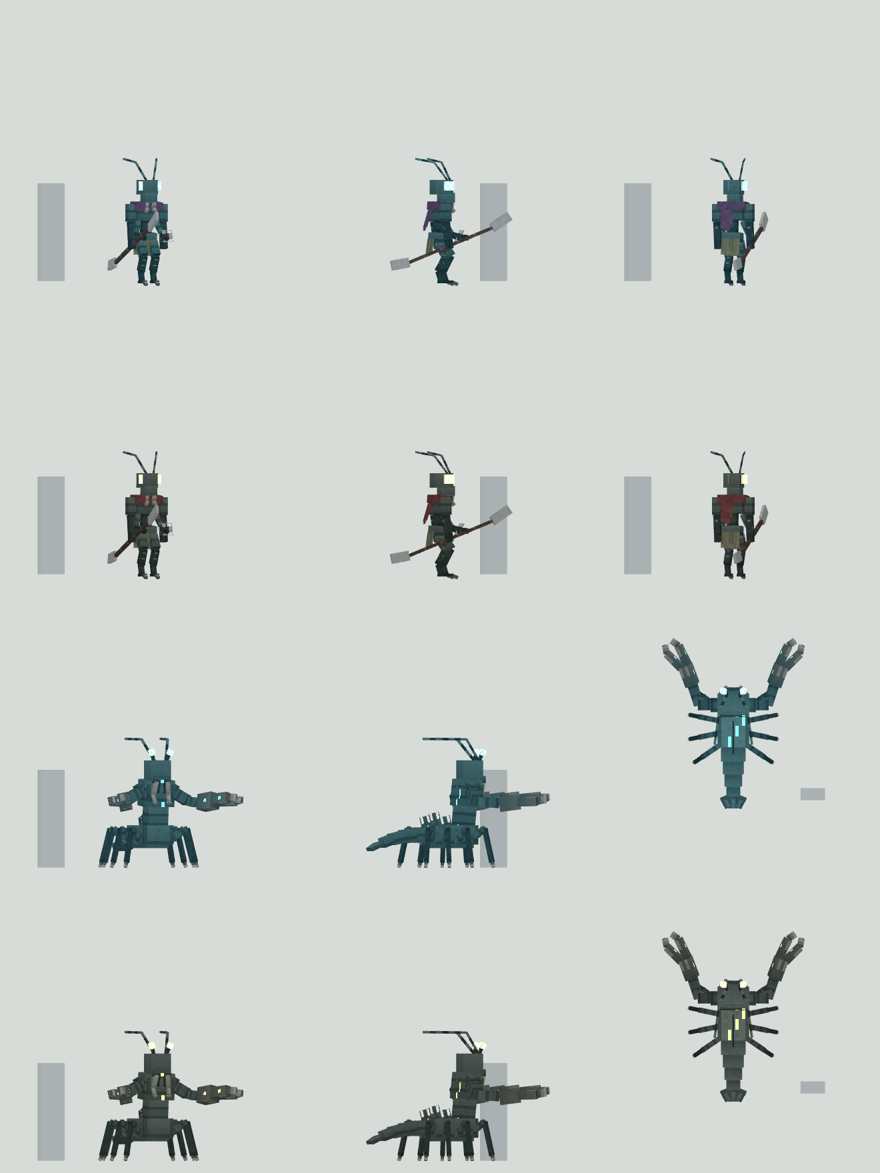
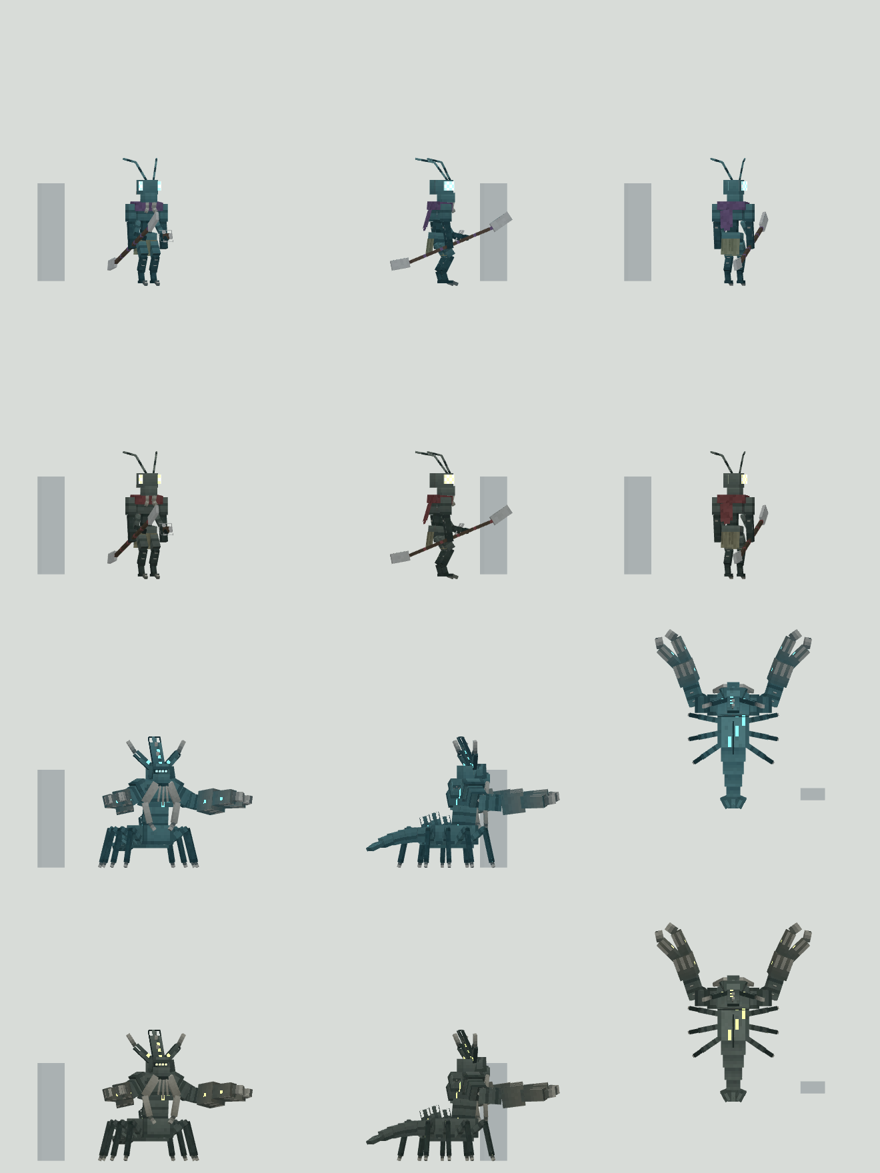
Deepmaw: thick claw arms and a face with depth, after the reference
The arms and pincers are about half again as thick. The head is rebuilt
from the reference: a tall spiked crown with two horns, a heavy brow
overhanging a recessed row of glowing eyes, a snout jutting forward over
a dark mouth, flared bone tusk-blades and thin fangs. Eye stalks and
antennae are gone.

Claude-Session: https://claude.ai/code/session_01EWJoGWZ8sZFDomPfmPJbYJ

diff --git a/mods/warfront/src/main/java/com/warfront/client/model/UnitGeometry.java b/mods/warfront/src/main/java/com/warfront/client/model/UnitGeometry.java
@@ -430,163 +430,179 @@ public final class UnitGeometry {
     public static LayerDefinition hive_beast() {
         MeshDefinition mesh = new MeshDefinition();
         PartDefinition root = mesh.getRoot();
-        PartDefinition p0 = root.addOrReplaceChild("head", CubeListBuilder.create().texOffs(0, 20).addBox(-3F, -6F, -3.5F, 6F, 6F, 6F).texOffs(60, 58).addBox(-2.5F, -1.5F, -4.5F, 5F, 2F, 2F),
+        PartDefinition p0 = root.addOrReplaceChild("head", CubeListBuilder.create().texOffs(94, 32).addBox(-2.5F, -4.5F, -2.5F, 5F, 4.5F, 5F).texOffs(14, 71).addBox(-2.75F, -5F, -4.5F, 5.5F, 1.5F, 2.5F).texOffs(0, 77).addBox(-2F, -3.5F, -3.6F, 4F, 1.4F, 1.1F).texOffs(112, 77).addBox(-1.7F, -3.2F, -3.85F, 0.6F, 0.6F, 0.3F).texOffs(116, 77).addBox(-0.75F, -3.2F, -3.85F, 0.6F, 0.6F, 0.3F).texOffs(120, 77).addBox(0.15F, -3.2F, -3.85F, 0.6F, 0.6F, 0.3F).texOffs(124, 77).addBox(1.1F, -3.2F, -3.85F, 0.6F, 0.6F, 0.3F).texOffs(38, 63).addBox(-1.75F, -2.1F, -6F, 3.5F, 2.6F, 3.5F).texOffs(12, 77).addBox(-1.25F, -2.5F, -5.75F, 2.5F, 0.5F, 3F).texOffs(24, 77).addBox(-1.5F, 0.5F, -5.5F, 3F, 1F, 3F),
                 PartPose.offsetAndRotation(0F, -0.5F, -8.5F, 0F, 0F, 0F));
-        PartDefinition p1 = p0.addOrReplaceChild("eye_r", CubeListBuilder.create().texOffs(74, 58).addBox(-0.4F, -2.5F, -0.4F, 0.8F, 2.5F, 0.8F).texOffs(78, 58).addBox(-0.75F, -3.8F, -0.75F, 1.5F, 1.5F, 1.5F),
-                PartPose.offsetAndRotation(-1.8F, -5.5F, -2.5F, 0.3F, 0F, -0.35F));
-        PartDefinition p2 = p0.addOrReplaceChild("antenna_r", CubeListBuilder.create().texOffs(118, 20).addBox(-0.3F, -9F, -0.3F, 0.6F, 9F, 0.6F),
-                PartPose.offsetAndRotation(-1.4F, -5F, -3.2F, -0.6F, 0F, -0.35F));
-        PartDefinition p3 = p2.addOrReplaceChild("antenna_r_tip", CubeListBuilder.create().texOffs(110, 20).addBox(-0.25F, -10F, -0.25F, 0.5F, 10F, 0.5F),
-                PartPose.offsetAndRotation(0F, -9F, 0F, -0.9F, 0F, -0.2F));
-        PartDefinition p4 = p0.addOrReplaceChild("mandible_r", CubeListBuilder.create().texOffs(40, 51).addBox(-0.6F, 0F, -0.6F, 1.2F, 4F, 1.2F),
-                PartPose.offsetAndRotation(-1.6F, 0F, -4F, 0.25F, 0F, 0.2F));
-        PartDefinition p5 = p4.addOrReplaceChild("mandible_r_tip", CubeListBuilder.create().texOffs(86, 58).addBox(-0.45F, 0F, -0.45F, 0.9F, 3F, 0.9F),
-                PartPose.offsetAndRotation(0F, 4F, 0F, -0.8F, 0F, -0.4F));
-        PartDefinition p6 = p0.addOrReplaceChild("feeler_r", CubeListBuilder.create().texOffs(90, 58).addBox(-0.25F, 0F, -0.25F, 0.5F, 3F, 0.5F),
-                PartPose.offsetAndRotation(-0.7F, 0.5F, -4.3F, 0.2F, 0F, 0.1F));
-        PartDefinition p7 = p0.addOrReplaceChild("eye_l", CubeListBuilder.create().texOffs(94, 58).mirror().addBox(-0.4F, -2.5F, -0.4F, 0.8F, 2.5F, 0.8F).mirror(false).texOffs(98, 58).mirror().addBox(-0.75F, -3.8F, -0.75F, 1.5F, 1.5F, 1.5F).mirror(false),
-                PartPose.offsetAndRotation(1.8F, -5.5F, -2.5F, 0.3F, 0F, 0.35F));
-        PartDefinition p8 = p0.addOrReplaceChild("antenna_l", CubeListBuilder.create().texOffs(122, 20).mirror().addBox(-0.3F, -9F, -0.3F, 0.6F, 9F, 0.6F).mirror(false),
-                PartPose.offsetAndRotation(1.4F, -5F, -3.2F, -0.6F, 0F, 0.35F));
-        PartDefinition p9 = p8.addOrReplaceChild("antenna_l_tip", CubeListBuilder.create().texOffs(114, 20).mirror().addBox(-0.25F, -10F, -0.25F, 0.5F, 10F, 0.5F).mirror(false),
-                PartPose.offsetAndRotation(0F, -9F, 0F, -0.9F, 0F, 0.2F));
-        PartDefinition p10 = p0.addOrReplaceChild("mandible_l", CubeListBuilder.create().texOffs(48, 51).mirror().addBox(-0.6F, 0F, -0.6F, 1.2F, 4F, 1.2F).mirror(false),
-                PartPose.offsetAndRotation(1.6F, 0F, -4F, 0.25F, 0F, -0.2F));
-        PartDefinition p11 = p10.addOrReplaceChild("mandible_l_tip", CubeListBuilder.create().texOffs(106, 58).mirror().addBox(-0.45F, 0F, -0.45F, 0.9F, 3F, 0.9F).mirror(false),
-                PartPose.offsetAndRotation(0F, 4F, 0F, -0.8F, 0F, 0.4F));
-        PartDefinition p12 = p0.addOrReplaceChild("feeler_l", CubeListBuilder.create().texOffs(110, 58).mirror().addBox(-0.25F, 0F, -0.25F, 0.5F, 3F, 0.5F).mirror(false),
-                PartPose.offsetAndRotation(0.7F, 0.5F, -4.3F, 0.2F, 0F, -0.1F));
-        PartDefinition p13 = root.addOrReplaceChild("hat", CubeListBuilder.create(),
+        PartDefinition p1 = p0.addOrReplaceChild("crown_c", CubeListBuilder.create().texOffs(114, 32).addBox(-1.75F, -9F, -0.5F, 3.5F, 9F, 1F),
+                PartPose.offsetAndRotation(0F, -4.5F, -1.5F, -0.45F, 0F, 0F));
+        PartDefinition p2 = p1.addOrReplaceChild("crown_spike_0", CubeListBuilder.create().texOffs(72, 77).addBox(-0.4F, -2F, -0.4F, 0.8F, 2F, 0.8F),
+                PartPose.offsetAndRotation(0F, -2.5F, 0.5F, 0.9F, 0F, 0F));
+        PartDefinition p3 = p1.addOrReplaceChild("crown_spike_1", CubeListBuilder.create().texOffs(76, 77).addBox(-0.4F, -2F, -0.4F, 0.8F, 2F, 0.8F),
+                PartPose.offsetAndRotation(0F, -5.5F, 0.5F, 0.9F, 0F, 0F));
+        PartDefinition p4 = p0.addOrReplaceChild("horn_r", CubeListBuilder.create().texOffs(64, 54).addBox(-1F, -6F, -0.6F, 2F, 6F, 1.2F),
+                PartPose.offsetAndRotation(-2.25F, -4F, -1F, -0.2F, 0F, -0.8F));
+        PartDefinition p5 = p4.addOrReplaceChild("horn_r_tip", CubeListBuilder.create().texOffs(32, 71).addBox(-0.5F, -4F, -0.5F, 1F, 4F, 1F),
+                PartPose.offsetAndRotation(0F, -6F, 0F, 0F, 0F, 0.25F));
+        PartDefinition p6 = p0.addOrReplaceChild("cheek_r", CubeListBuilder.create().texOffs(72, 54).addBox(-1F, -2F, -1F, 1F, 3.5F, 3.5F),
+                PartPose.offsetAndRotation(-2.6F, -2.2F, -3.6F, 0F, 0.5F, 0.15F));
+        PartDefinition p7 = p0.addOrReplaceChild("mandible_r", CubeListBuilder.create().texOffs(82, 54).addBox(-1.1F, 0F, -0.5F, 2.2F, 6.5F, 1F),
+                PartPose.offsetAndRotation(-1.9F, 0.5F, -5F, 0.25F, 0F, 0.5F));
+        PartDefinition p8 = p7.addOrReplaceChild("mandible_r_tip", CubeListBuilder.create().texOffs(54, 63).addBox(-0.85F, 0F, -0.5F, 1.7F, 6F, 1F),
+                PartPose.offsetAndRotation(0F, 6.5F, 0F, -0.3F, 0F, -0.75F));
+        PartDefinition p9 = p8.addOrReplaceChild("mandible_r_point", CubeListBuilder.create().texOffs(36, 77).addBox(-0.5F, 0F, -0.5F, 1F, 2.5F, 1F),
+                PartPose.offsetAndRotation(0F, 6F, 0F, 0F, 0F, -0.4F));
+        PartDefinition p10 = p0.addOrReplaceChild("fang_r", CubeListBuilder.create().texOffs(78, 63).addBox(-0.25F, 0F, -0.25F, 0.5F, 4.5F, 0.5F),
+                PartPose.offsetAndRotation(-0.9F, 1.3F, -5.4F, 0.1F, 0F, 0.12F));
+        PartDefinition p11 = p0.addOrReplaceChild("horn_l", CubeListBuilder.create().texOffs(90, 54).mirror().addBox(-1F, -6F, -0.6F, 2F, 6F, 1.2F).mirror(false),
+                PartPose.offsetAndRotation(2.25F, -4F, -1F, -0.2F, 0F, 0.8F));
+        PartDefinition p12 = p11.addOrReplaceChild("horn_l_tip", CubeListBuilder.create().texOffs(36, 71).mirror().addBox(-0.5F, -4F, -0.5F, 1F, 4F, 1F).mirror(false),
+                PartPose.offsetAndRotation(0F, -6F, 0F, 0F, 0F, -0.25F));
+        PartDefinition p13 = p0.addOrReplaceChild("cheek_l", CubeListBuilder.create().texOffs(98, 54).mirror().addBox(0F, -2F, -1F, 1F, 3.5F, 3.5F).mirror(false),
+                PartPose.offsetAndRotation(2.6F, -2.2F, -3.6F, 0F, -0.5F, -0.15F));
+        PartDefinition p14 = p0.addOrReplaceChild("mandible_l", CubeListBuilder.create().texOffs(108, 54).mirror().addBox(-1.1F, 0F, -0.5F, 2.2F, 6.5F, 1F).mirror(false),
+                PartPose.offsetAndRotation(1.9F, 0.5F, -5F, 0.25F, 0F, -0.5F));
+        PartDefinition p15 = p14.addOrReplaceChild("mandible_l_tip", CubeListBuilder.create().texOffs(60, 63).mirror().addBox(-0.85F, 0F, -0.5F, 1.7F, 6F, 1F).mirror(false),
+                PartPose.offsetAndRotation(0F, 6.5F, 0F, -0.3F, 0F, 0.75F));
+        PartDefinition p16 = p15.addOrReplaceChild("mandible_l_point", CubeListBuilder.create().texOffs(40, 77).mirror().addBox(-0.5F, 0F, -0.5F, 1F, 2.5F, 1F).mirror(false),
+                PartPose.offsetAndRotation(0F, 6F, 0F, 0F, 0F, 0.4F));
+        PartDefinition p17 = p0.addOrReplaceChild("fang_l", CubeListBuilder.create().texOffs(82, 63).mirror().addBox(-0.25F, 0F, -0.25F, 0.5F, 4.5F, 0.5F).mirror(false),
+                PartPose.offsetAndRotation(0.9F, 1.3F, -5.4F, 0.1F, 0F, -0.12F));
+        PartDefinition p18 = p0.addOrReplaceChild("fang_c", CubeListBuilder.create().texOffs(66, 63).addBox(-0.25F, 0F, -0.25F, 0.5F, 5.5F, 0.5F),
+                PartPose.offsetAndRotation(0F, 1.4F, -5.6F, 0.12F, 0F, 0F));
+        PartDefinition p19 = root.addOrReplaceChild("hat", CubeListBuilder.create(),
                 PartPose.offsetAndRotation(0F, 0F, 0F, 0F, 0F, 0F));
-        PartDefinition p14 = root.addOrReplaceChild("body", CubeListBuilder.create().texOffs(0, 0).addBox(-4.5F, -3F, -10F, 9F, 5.5F, 14F).texOffs(76, 0).addBox(-3.5F, 2.5F, -9F, 7F, 1F, 12F),
+        PartDefinition p20 = root.addOrReplaceChild("body", CubeListBuilder.create().texOffs(0, 0).addBox(-4.5F, -3F, -10F, 9F, 5.5F, 14F).texOffs(76, 0).addBox(-3.5F, 2.5F, -9F, 7F, 1F, 12F),
                 PartPose.offsetAndRotation(0F, 15F, 0F, 0F, 0F, 0F));
-        PartDefinition p15 = p14.addOrReplaceChild("torso", CubeListBuilder.create().texOffs(24, 20).addBox(-3F, -6F, -2.5F, 6F, 6.5F, 5F).texOffs(46, 0).addBox(-4.5F, -13.5F, -3F, 9F, 7.5F, 6F).texOffs(56, 51).addBox(-4F, -12.5F, -3.6F, 8F, 5F, 1F),
+        PartDefinition p21 = p20.addOrReplaceChild("torso", CubeListBuilder.create().texOffs(0, 20).addBox(-3F, -6F, -2.5F, 6F, 6.5F, 5F).texOffs(46, 0).addBox(-4.5F, -13.5F, -3F, 9F, 7.5F, 6F).texOffs(86, 63).addBox(-4F, -12.5F, -3.6F, 8F, 5F, 1F),
                 PartPose.offsetAndRotation(0F, -2.5F, -7F, 0.1F, 0F, 0F));
-        PartDefinition p16 = p15.addOrReplaceChild("torso_spike_0", CubeListBuilder.create().texOffs(114, 58).addBox(-0.4F, -2.5F, -0.4F, 0.8F, 2.5F, 0.8F),
+        PartDefinition p22 = p21.addOrReplaceChild("torso_spike_0", CubeListBuilder.create().texOffs(44, 77).addBox(-0.4F, -2.5F, -0.4F, 0.8F, 2.5F, 0.8F),
                 PartPose.offsetAndRotation(-2F, -10.5F, 3F, 0.9F, 0F, 0F));
-        PartDefinition p17 = p15.addOrReplaceChild("torso_spike_1", CubeListBuilder.create().texOffs(118, 58).addBox(-0.4F, -2.5F, -0.4F, 0.8F, 2.5F, 0.8F),
+        PartDefinition p23 = p21.addOrReplaceChild("torso_spike_1", CubeListBuilder.create().texOffs(48, 77).addBox(-0.4F, -2.5F, -0.4F, 0.8F, 2.5F, 0.8F),
                 PartPose.offsetAndRotation(0F, -11F, 3F, 0.9F, 0F, 0F));
-        PartDefinition p18 = p15.addOrReplaceChild("torso_spike_2", CubeListBuilder.create().texOffs(122, 58).addBox(-0.4F, -2.5F, -0.4F, 0.8F, 2.5F, 0.8F),
+        PartDefinition p24 = p21.addOrReplaceChild("torso_spike_2", CubeListBuilder.create().texOffs(52, 77).addBox(-0.4F, -2.5F, -0.4F, 0.8F, 2.5F, 0.8F),
                 PartPose.offsetAndRotation(2F, -10.5F, 3F, 0.9F, 0F, 0F));
-        PartDefinition p19 = p14.addOrReplaceChild("crest_0", CubeListBuilder.create().texOffs(74, 51).addBox(-0.25F, -3F, 0F, 0.5F, 3F, 3F),
+        PartDefinition p25 = p20.addOrReplaceChild("crest_0", CubeListBuilder.create().texOffs(104, 63).addBox(-0.25F, -3F, 0F, 0.5F, 3F, 3F),
                 PartPose.offsetAndRotation(0F, -3F, -3.5F, -0.25F, 0F, 0F));
-        PartDefinition p20 = p14.addOrReplaceChild("crest_1", CubeListBuilder.create().texOffs(0, 51).addBox(-0.25F, -4F, 0F, 0.5F, 4F, 3F),
+        PartDefinition p26 = p20.addOrReplaceChild("crest_1", CubeListBuilder.create().texOffs(70, 63).addBox(-0.25F, -4F, 0F, 0.5F, 4F, 3F),
                 PartPose.offsetAndRotation(0F, -3F, -0.5F, -0.25F, 0F, 0F));
-        PartDefinition p21 = p14.addOrReplaceChild("crest_2", CubeListBuilder.create().texOffs(82, 51).addBox(-0.25F, -3F, 0F, 0.5F, 3F, 3F),
+        PartDefinition p27 = p20.addOrReplaceChild("crest_2", CubeListBuilder.create().texOffs(112, 63).addBox(-0.25F, -3F, 0F, 0.5F, 3F, 3F),
                 PartPose.offsetAndRotation(0F, -3F, 2.5F, -0.25F, 0F, 0F));
-        PartDefinition p22 = p14.addOrReplaceChild("tail", CubeListBuilder.create().texOffs(36, 32).addBox(-3.5F, -2F, 0F, 7F, 4.25F, 4F),
+        PartDefinition p28 = p20.addOrReplaceChild("tail", CubeListBuilder.create().texOffs(56, 44).addBox(-3.5F, -2F, 0F, 7F, 4.25F, 4F),
                 PartPose.offsetAndRotation(0F, -0.5F, 4F, -0.05F, 0F, 0F));
-        PartDefinition p23 = p22.addOrReplaceChild("tail_2", CubeListBuilder.create().texOffs(48, 42).addBox(-3F, -1.75F, 0F, 6F, 3.75F, 3.5F),
+        PartDefinition p29 = p28.addOrReplaceChild("tail_2", CubeListBuilder.create().texOffs(0, 63).addBox(-3F, -1.75F, 0F, 6F, 3.75F, 3.5F),
                 PartPose.offsetAndRotation(0F, 0F, 4F, -0.08F, 0F, 0F));
-        PartDefinition p24 = p23.addOrReplaceChild("tail_3", CubeListBuilder.create().texOffs(68, 42).addBox(-2.5F, -1.5F, 0F, 5F, 3.25F, 3.5F),
+        PartDefinition p30 = p29.addOrReplaceChild("tail_3", CubeListBuilder.create().texOffs(20, 63).addBox(-2.5F, -1.5F, 0F, 5F, 3.25F, 3.5F),
                 PartPose.offsetAndRotation(0F, 0F, 3.5F, -0.1F, 0F, 0F));
-        PartDefinition p25 = p24.addOrReplaceChild("tail_4", CubeListBuilder.create().texOffs(90, 51).addBox(-2F, -1.25F, 0F, 4F, 2.75F, 3F),
+        PartDefinition p31 = p30.addOrReplaceChild("tail_4", CubeListBuilder.create().texOffs(0, 71).addBox(-2F, -1.25F, 0F, 4F, 2.75F, 3F),
                 PartPose.offsetAndRotation(0F, 0F, 3.5F, -0.12F, 0F, 0F));
-        PartDefinition p26 = p25.addOrReplaceChild("tail_fan", CubeListBuilder.create().texOffs(104, 51).addBox(-1.5F, -0.5F, 0F, 3F, 1F, 4F),
+        PartDefinition p32 = p31.addOrReplaceChild("tail_fan", CubeListBuilder.create().texOffs(40, 71).addBox(-1.5F, -0.5F, 0F, 3F, 1F, 4F),
                 PartPose.offsetAndRotation(0F, 0F, 3F, -0.15F, 0F, 0F));
-        PartDefinition p27 = p26.addOrReplaceChild("tail_fan_r", CubeListBuilder.create().texOffs(0, 58).addBox(-2.5F, -0.5F, 0F, 2.5F, 1F, 3.5F),
+        PartDefinition p33 = p32.addOrReplaceChild("tail_fan_r", CubeListBuilder.create().texOffs(54, 71).addBox(-2.5F, -0.5F, 0F, 2.5F, 1F, 3.5F),
                 PartPose.offsetAndRotation(-1.5F, 0F, 0F, 0F, 0.45F, 0F));
-        PartDefinition p28 = p26.addOrReplaceChild("tail_fan_l", CubeListBuilder.create().texOffs(14, 58).addBox(0F, -0.5F, 0F, 2.5F, 1F, 3.5F),
+        PartDefinition p34 = p32.addOrReplaceChild("tail_fan_l", CubeListBuilder.create().texOffs(68, 71).addBox(0F, -0.5F, 0F, 2.5F, 1F, 3.5F),
                 PartPose.offsetAndRotation(1.5F, 0F, 0F, 0F, -0.45F, 0F));
-        PartDefinition p29 = p14.addOrReplaceChild("leg_r0", CubeListBuilder.create(),
+        PartDefinition p35 = p20.addOrReplaceChild("leg_r0", CubeListBuilder.create(),
                 PartPose.offsetAndRotation(-4F, 2F, -7F, 0F, -0.65F, 0F));
-        PartDefinition p30 = p29.addOrReplaceChild("leg_r0_upper", CubeListBuilder.create().texOffs(58, 32).addBox(-0.75F, 0F, -0.75F, 1.5F, 7F, 1.5F),
+        PartDefinition p36 = p35.addOrReplaceChild("leg_r0_upper", CubeListBuilder.create().texOffs(78, 44).addBox(-0.75F, 0F, -0.75F, 1.5F, 7F, 1.5F),
                 PartPose.offsetAndRotation(0F, 0F, 0F, 0F, 0F, 2.2F));
-        PartDefinition p31 = p30.addOrReplaceChild("leg_r0_lower", CubeListBuilder.create().texOffs(46, 20).addBox(-0.6F, 0F, -0.6F, 1.2F, 10F, 1.2F),
+        PartDefinition p37 = p36.addOrReplaceChild("leg_r0_lower", CubeListBuilder.create().texOffs(22, 20).addBox(-0.6F, 0F, -0.6F, 1.2F, 10F, 1.2F),
                 PartPose.offsetAndRotation(0F, 7F, 0F, 0F, 0F, -1.95F));
-        PartDefinition p32 = p31.addOrReplaceChild("leg_r0_tip", CubeListBuilder.create().texOffs(0, 63).addBox(-0.4F, 0F, -0.4F, 0.8F, 1.5F, 0.8F),
+        PartDefinition p38 = p37.addOrReplaceChild("leg_r0_tip", CubeListBuilder.create().texOffs(80, 77).addBox(-0.4F, 0F, -0.4F, 0.8F, 1.5F, 0.8F),
                 PartPose.offsetAndRotation(0F, 10F, 0F, 0F, 0F, 0.15F));
-        PartDefinition p33 = p14.addOrReplaceChild("leg_r1", CubeListBuilder.create(),
+        PartDefinition p39 = p20.addOrReplaceChild("leg_r1", CubeListBuilder.create(),
                 PartPose.offsetAndRotation(-4F, 2F, -3.5F, 0F, -0.2F, 0F));
-        PartDefinition p34 = p33.addOrReplaceChild("leg_r1_upper", CubeListBuilder.create().texOffs(66, 32).addBox(-0.75F, 0F, -0.75F, 1.5F, 7F, 1.5F),
+        PartDefinition p40 = p39.addOrReplaceChild("leg_r1_upper", CubeListBuilder.create().texOffs(86, 44).addBox(-0.75F, 0F, -0.75F, 1.5F, 7F, 1.5F),
                 PartPose.offsetAndRotation(0F, 0F, 0F, 0F, 0F, 2.2F));
-        PartDefinition p35 = p34.addOrReplaceChild("leg_r1_lower", CubeListBuilder.create().texOffs(54, 20).addBox(-0.6F, 0F, -0.6F, 1.2F, 10F, 1.2F),
+        PartDefinition p41 = p40.addOrReplaceChild("leg_r1_lower", CubeListBuilder.create().texOffs(30, 20).addBox(-0.6F, 0F, -0.6F, 1.2F, 10F, 1.2F),
                 PartPose.offsetAndRotation(0F, 7F, 0F, 0F, 0F, -1.95F));
-        PartDefinition p36 = p35.addOrReplaceChild("leg_r1_tip", CubeListBuilder.create().texOffs(4, 63).addBox(-0.4F, 0F, -0.4F, 0.8F, 1.5F, 0.8F),
+        PartDefinition p42 = p41.addOrReplaceChild("leg_r1_tip", CubeListBuilder.create().texOffs(84, 77).addBox(-0.4F, 0F, -0.4F, 0.8F, 1.5F, 0.8F),
                 PartPose.offsetAndRotation(0F, 10F, 0F, 0F, 0F, 0.15F));
-        PartDefinition p37 = p14.addOrReplaceChild("leg_r2", CubeListBuilder.create(),
+        PartDefinition p43 = p20.addOrReplaceChild("leg_r2", CubeListBuilder.create(),
                 PartPose.offsetAndRotation(-4F, 2F, 0F, 0F, 0.2F, 0F));
-        PartDefinition p38 = p37.addOrReplaceChild("leg_r2_upper", CubeListBuilder.create().texOffs(74, 32).addBox(-0.75F, 0F, -0.75F, 1.5F, 7F, 1.5F),
+        PartDefinition p44 = p43.addOrReplaceChild("leg_r2_upper", CubeListBuilder.create().texOffs(94, 44).addBox(-0.75F, 0F, -0.75F, 1.5F, 7F, 1.5F),
                 PartPose.offsetAndRotation(0F, 0F, 0F, 0F, 0F, 2.2F));
-        PartDefinition p39 = p38.addOrReplaceChild("leg_r2_lower", CubeListBuilder.create().texOffs(62, 20).addBox(-0.6F, 0F, -0.6F, 1.2F, 10F, 1.2F),
+        PartDefinition p45 = p44.addOrReplaceChild("leg_r2_lower", CubeListBuilder.create().texOffs(38, 20).addBox(-0.6F, 0F, -0.6F, 1.2F, 10F, 1.2F),
                 PartPose.offsetAndRotation(0F, 7F, 0F, 0F, 0F, -1.95F));
-        PartDefinition p40 = p39.addOrReplaceChild("leg_r2_tip", CubeListBuilder.create().texOffs(8, 63).addBox(-0.4F, 0F, -0.4F, 0.8F, 1.5F, 0.8F),
+        PartDefinition p46 = p45.addOrReplaceChild("leg_r2_tip", CubeListBuilder.create().texOffs(88, 77).addBox(-0.4F, 0F, -0.4F, 0.8F, 1.5F, 0.8F),
                 PartPose.offsetAndRotation(0F, 10F, 0F, 0F, 0F, 0.15F));
-        PartDefinition p41 = p14.addOrReplaceChild("leg_r3", CubeListBuilder.create(),
+        PartDefinition p47 = p20.addOrReplaceChild("leg_r3", CubeListBuilder.create(),
                 PartPose.offsetAndRotation(-4F, 2F, 3.5F, 0F, 0.6F, 0F));
-        PartDefinition p42 = p41.addOrReplaceChild("leg_r3_upper", CubeListBuilder.create().texOffs(82, 32).addBox(-0.75F, 0F, -0.75F, 1.5F, 7F, 1.5F),
+        PartDefinition p48 = p47.addOrReplaceChild("leg_r3_upper", CubeListBuilder.create().texOffs(102, 44).addBox(-0.75F, 0F, -0.75F, 1.5F, 7F, 1.5F),
                 PartPose.offsetAndRotation(0F, 0F, 0F, 0F, 0F, 2.2F));
-        PartDefinition p43 = p42.addOrReplaceChild("leg_r3_lower", CubeListBuilder.create().texOffs(70, 20).addBox(-0.6F, 0F, -0.6F, 1.2F, 10F, 1.2F),
+        PartDefinition p49 = p48.addOrReplaceChild("leg_r3_lower", CubeListBuilder.create().texOffs(46, 20).addBox(-0.6F, 0F, -0.6F, 1.2F, 10F, 1.2F),
                 PartPose.offsetAndRotation(0F, 7F, 0F, 0F, 0F, -1.95F));
-        PartDefinition p44 = p43.addOrReplaceChild("leg_r3_tip", CubeListBuilder.create().texOffs(12, 63).addBox(-0.4F, 0F, -0.4F, 0.8F, 1.5F, 0.8F),
+        PartDefinition p50 = p49.addOrReplaceChild("leg_r3_tip", CubeListBuilder.create().texOffs(92, 77).addBox(-0.4F, 0F, -0.4F, 0.8F, 1.5F, 0.8F),
                 PartPose.offsetAndRotation(0F, 10F, 0F, 0F, 0F, 0.15F));
-        PartDefinition p45 = p14.addOrReplaceChild("leg_l0", CubeListBuilder.create(),
+        PartDefinition p51 = p20.addOrReplaceChild("leg_l0", CubeListBuilder.create(),
                 PartPose.offsetAndRotation(4F, 2F, -7F, 0F, 0.65F, 0F));
-        PartDefinition p46 = p45.addOrReplaceChild("leg_l0_upper", CubeListBuilder.create().texOffs(90, 32).mirror().addBox(-0.75F, 0F, -0.75F, 1.5F, 7F, 1.5F).mirror(false),
+        PartDefinition p52 = p51.addOrReplaceChild("leg_l0_upper", CubeListBuilder.create().texOffs(110, 44).mirror().addBox(-0.75F, 0F, -0.75F, 1.5F, 7F, 1.5F).mirror(false),
                 PartPose.offsetAndRotation(0F, 0F, 0F, 0F, 0F, -2.2F));
-        PartDefinition p47 = p46.addOrReplaceChild("leg_l0_lower", CubeListBuilder.create().texOffs(78, 20).mirror().addBox(-0.6F, 0F, -0.6F, 1.2F, 10F, 1.2F).mirror(false),
+        PartDefinition p53 = p52.addOrReplaceChild("leg_l0_lower", CubeListBuilder.create().texOffs(54, 20).mirror().addBox(-0.6F, 0F, -0.6F, 1.2F, 10F, 1.2F).mirror(false),
                 PartPose.offsetAndRotation(0F, 7F, 0F, 0F, 0F, 1.95F));
-        PartDefinition p48 = p47.addOrReplaceChild("leg_l0_tip", CubeListBuilder.create().texOffs(16, 63).mirror().addBox(-0.4F, 0F, -0.4F, 0.8F, 1.5F, 0.8F).mirror(false),
+        PartDefinition p54 = p53.addOrReplaceChild("leg_l0_tip", CubeListBuilder.create().texOffs(96, 77).mirror().addBox(-0.4F, 0F, -0.4F, 0.8F, 1.5F, 0.8F).mirror(false),
                 PartPose.offsetAndRotation(0F, 10F, 0F, 0F, 0F, -0.15F));
-        PartDefinition p49 = p14.addOrReplaceChild("leg_l1", CubeListBuilder.create(),
+        PartDefinition p55 = p20.addOrReplaceChild("leg_l1", CubeListBuilder.create(),
                 PartPose.offsetAndRotation(4F, 2F, -3.5F, 0F, 0.2F, 0F));
-        PartDefinition p50 = p49.addOrReplaceChild("leg_l1_upper", CubeListBuilder.create().texOffs(98, 32).mirror().addBox(-0.75F, 0F, -0.75F, 1.5F, 7F, 1.5F).mirror(false),
+        PartDefinition p56 = p55.addOrReplaceChild("leg_l1_upper", CubeListBuilder.create().texOffs(118, 44).mirror().addBox(-0.75F, 0F, -0.75F, 1.5F, 7F, 1.5F).mirror(false),
                 PartPose.offsetAndRotation(0F, 0F, 0F, 0F, 0F, -2.2F));
-        PartDefinition p51 = p50.addOrReplaceChild("leg_l1_lower", CubeListBuilder.create().texOffs(86, 20).mirror().addBox(-0.6F, 0F, -0.6F, 1.2F, 10F, 1.2F).mirror(false),
+        PartDefinition p57 = p56.addOrReplaceChild("leg_l1_lower", CubeListBuilder.create().texOffs(62, 20).mirror().addBox(-0.6F, 0F, -0.6F, 1.2F, 10F, 1.2F).mirror(false),
                 PartPose.offsetAndRotation(0F, 7F, 0F, 0F, 0F, 1.95F));
-        PartDefinition p52 = p51.addOrReplaceChild("leg_l1_tip", CubeListBuilder.create().texOffs(20, 63).mirror().addBox(-0.4F, 0F, -0.4F, 0.8F, 1.5F, 0.8F).mirror(false),
+        PartDefinition p58 = p57.addOrReplaceChild("leg_l1_tip", CubeListBuilder.create().texOffs(100, 77).mirror().addBox(-0.4F, 0F, -0.4F, 0.8F, 1.5F, 0.8F).mirror(false),
                 PartPose.offsetAndRotation(0F, 10F, 0F, 0F, 0F, -0.15F));
-        PartDefinition p53 = p14.addOrReplaceChild("leg_l2", CubeListBuilder.create(),
+        PartDefinition p59 = p20.addOrReplaceChild("leg_l2", CubeListBuilder.create(),
                 PartPose.offsetAndRotation(4F, 2F, 0F, 0F, -0.2F, 0F));
-        PartDefinition p54 = p53.addOrReplaceChild("leg_l2_upper", CubeListBuilder.create().texOffs(106, 32).mirror().addBox(-0.75F, 0F, -0.75F, 1.5F, 7F, 1.5F).mirror(false),
+        PartDefinition p60 = p59.addOrReplaceChild("leg_l2_upper", CubeListBuilder.create().texOffs(0, 54).mirror().addBox(-0.75F, 0F, -0.75F, 1.5F, 7F, 1.5F).mirror(false),
                 PartPose.offsetAndRotation(0F, 0F, 0F, 0F, 0F, -2.2F));
-        PartDefinition p55 = p54.addOrReplaceChild("leg_l2_lower", CubeListBuilder.create().texOffs(94, 20).mirror().addBox(-0.6F, 0F, -0.6F, 1.2F, 10F, 1.2F).mirror(false),
+        PartDefinition p61 = p60.addOrReplaceChild("leg_l2_lower", CubeListBuilder.create().texOffs(70, 20).mirror().addBox(-0.6F, 0F, -0.6F, 1.2F, 10F, 1.2F).mirror(false),
                 PartPose.offsetAndRotation(0F, 7F, 0F, 0F, 0F, 1.95F));
-        PartDefinition p56 = p55.addOrReplaceChild("leg_l2_tip", CubeListBuilder.create().texOffs(24, 63).mirror().addBox(-0.4F, 0F, -0.4F, 0.8F, 1.5F, 0.8F).mirror(false),
+        PartDefinition p62 = p61.addOrReplaceChild("leg_l2_tip", CubeListBuilder.create().texOffs(104, 77).mirror().addBox(-0.4F, 0F, -0.4F, 0.8F, 1.5F, 0.8F).mirror(false),
                 PartPose.offsetAndRotation(0F, 10F, 0F, 0F, 0F, -0.15F));
-        PartDefinition p57 = p14.addOrReplaceChild("leg_l3", CubeListBuilder.create(),
+        PartDefinition p63 = p20.addOrReplaceChild("leg_l3", CubeListBuilder.create(),
                 PartPose.offsetAndRotation(4F, 2F, 3.5F, 0F, -0.6F, 0F));
-        PartDefinition p58 = p57.addOrReplaceChild("leg_l3_upper", CubeListBuilder.create().texOffs(114, 32).mirror().addBox(-0.75F, 0F, -0.75F, 1.5F, 7F, 1.5F).mirror(false),
+        PartDefinition p64 = p63.addOrReplaceChild("leg_l3_upper", CubeListBuilder.create().texOffs(8, 54).mirror().addBox(-0.75F, 0F, -0.75F, 1.5F, 7F, 1.5F).mirror(false),
                 PartPose.offsetAndRotation(0F, 0F, 0F, 0F, 0F, -2.2F));
-        PartDefinition p59 = p58.addOrReplaceChild("leg_l3_lower", CubeListBuilder.create().texOffs(102, 20).mirror().addBox(-0.6F, 0F, -0.6F, 1.2F, 10F, 1.2F).mirror(false),
+        PartDefinition p65 = p64.addOrReplaceChild("leg_l3_lower", CubeListBuilder.create().texOffs(78, 20).mirror().addBox(-0.6F, 0F, -0.6F, 1.2F, 10F, 1.2F).mirror(false),
                 PartPose.offsetAndRotation(0F, 7F, 0F, 0F, 0F, 1.95F));
-        PartDefinition p60 = p59.addOrReplaceChild("leg_l3_tip", CubeListBuilder.create().texOffs(28, 63).mirror().addBox(-0.4F, 0F, -0.4F, 0.8F, 1.5F, 0.8F).mirror(false),
+        PartDefinition p66 = p65.addOrReplaceChild("leg_l3_tip", CubeListBuilder.create().texOffs(108, 77).mirror().addBox(-0.4F, 0F, -0.4F, 0.8F, 1.5F, 0.8F).mirror(false),
                 PartPose.offsetAndRotation(0F, 10F, 0F, 0F, 0F, -0.15F));
-        PartDefinition p61 = root.addOrReplaceChild("right_arm", CubeListBuilder.create().texOffs(0, 42).addBox(-1.5F, -1F, -1.5F, 3F, 6F, 3F).texOffs(8, 51).addBox(-2F, -2F, -2F, 4F, 2.5F, 4F),
-                PartPose.offsetAndRotation(-5F, 2.5F, -8F, 0F, 0F, 1.05F));
-        PartDefinition p62 = p61.addOrReplaceChild("forearm_r", CubeListBuilder.create().texOffs(12, 42).addBox(-1.25F, 0F, -1.25F, 2.5F, 6F, 2.5F),
+        PartDefinition p67 = root.addOrReplaceChild("right_arm", CubeListBuilder.create().texOffs(22, 32).addBox(-2.25F, -1F, -2.25F, 4.5F, 6F, 4.5F).texOffs(16, 54).addBox(-3F, -2.5F, -3F, 6F, 3F, 6F),
+                PartPose.offsetAndRotation(-5.5F, 2.5F, -8F, 0F, 0F, 1.05F));
+        PartDefinition p68 = p67.addOrReplaceChild("forearm_r", CubeListBuilder.create().texOffs(42, 32).addBox(-2F, 0F, -2F, 4F, 6.5F, 4F),
                 PartPose.offsetAndRotation(0F, 5.5F, 0F, -1.25F, 0F, 0.3F));
-        PartDefinition p63 = p62.addOrReplaceChild("forearm_r_spike", CubeListBuilder.create().texOffs(32, 63).addBox(-0.4F, -2F, -0.4F, 0.8F, 2F, 0.8F),
-                PartPose.offsetAndRotation(-1.1F, 2.5F, 0F, 0F, 0F, 0.9F));
-        PartDefinition p64 = p62.addOrReplaceChild("pincer_r", CubeListBuilder.create().texOffs(0, 32).addBox(-2.25F, 0F, -1.75F, 4.5F, 6F, 3.5F),
-                PartPose.offsetAndRotation(0F, 6F, 0F, 0F, 0F, 0.2F));
-        PartDefinition p65 = p64.addOrReplaceChild("pincer_r_fixed", CubeListBuilder.create().texOffs(86, 42).addBox(-1.5F, 0F, -1F, 3F, 6F, 2F),
-                PartPose.offsetAndRotation(0F, 6F, -0.75F, 0.1F, 0F, 0F));
-        PartDefinition p66 = p65.addOrReplaceChild("pincer_r_tip", CubeListBuilder.create().texOffs(28, 58).addBox(-1F, 0F, -0.75F, 2F, 2.5F, 1.5F),
-                PartPose.offsetAndRotation(0F, 6F, 0F, 0.5F, 0F, 0F));
-        PartDefinition p67 = p64.addOrReplaceChild("claw_r", CubeListBuilder.create().texOffs(96, 42).addBox(-1.25F, 0F, -1F, 2.5F, 6F, 2F),
-                PartPose.offsetAndRotation(0F, 5.5F, 1.25F, 0.45F, 0F, 0F));
-        PartDefinition p68 = p67.addOrReplaceChild("claw_r_tip", CubeListBuilder.create().texOffs(36, 58).addBox(-0.9F, 0F, -0.75F, 1.8F, 2.5F, 1.5F),
-                PartPose.offsetAndRotation(0F, 6F, 0F, -0.6F, 0F, 0F));
-        PartDefinition p69 = root.addOrReplaceChild("left_arm", CubeListBuilder.create().texOffs(24, 42).mirror().addBox(-1.5F, -1F, -1.5F, 3F, 6F, 3F).mirror(false).texOffs(24, 51).mirror().addBox(-2F, -2F, -2F, 4F, 2.5F, 4F).mirror(false),
-                PartPose.offsetAndRotation(5F, 2.5F, -8F, 0F, 0F, -1.05F));
-        PartDefinition p70 = p69.addOrReplaceChild("forearm_l", CubeListBuilder.create().texOffs(36, 42).mirror().addBox(-1.25F, 0F, -1.25F, 2.5F, 6F, 2.5F).mirror(false),
+        PartDefinition p69 = p68.addOrReplaceChild("forearm_r_spike0", CubeListBuilder.create().texOffs(56, 77).addBox(-0.5F, -2.5F, -0.5F, 1F, 2.5F, 1F),
+                PartPose.offsetAndRotation(-1.9F, 1.5F, 0F, 0F, 0F, 0.9F));
+        PartDefinition p70 = p68.addOrReplaceChild("forearm_r_spike1", CubeListBuilder.create().texOffs(60, 77).addBox(-0.5F, -2.5F, -0.5F, 1F, 2.5F, 1F),
+                PartPose.offsetAndRotation(-1.9F, 4F, 0F, 0F, 0F, 0.9F));
+        PartDefinition p71 = p68.addOrReplaceChild("pincer_r", CubeListBuilder.create().texOffs(86, 20).addBox(-3F, 0F, -2.5F, 6F, 6.5F, 5F),
+                PartPose.offsetAndRotation(0F, 6.5F, 0F, 0F, 0F, 0.2F));
+        PartDefinition p72 = p71.addOrReplaceChild("pincer_r_fixed", CubeListBuilder.create().texOffs(0, 44).addBox(-2F, 0F, -1.25F, 4F, 7F, 2.5F),
+                PartPose.offsetAndRotation(0F, 6.5F, -1.25F, 0.1F, 0F, 0F));
+        PartDefinition p73 = p72.addOrReplaceChild("pincer_r_tip", CubeListBuilder.create().texOffs(82, 71).addBox(-1.25F, 0F, -1F, 2.5F, 3F, 2F),
+                PartPose.offsetAndRotation(0F, 7F, 0F, 0.5F, 0F, 0F));
+        PartDefinition p74 = p71.addOrReplaceChild("claw_r", CubeListBuilder.create().texOffs(14, 44).addBox(-1.75F, 0F, -1.25F, 3.5F, 7F, 2.5F),
+                PartPose.offsetAndRotation(0F, 6F, 1.5F, 0.45F, 0F, 0F));
+        PartDefinition p75 = p74.addOrReplaceChild("claw_r_tip", CubeListBuilder.create().texOffs(92, 71).addBox(-1.1F, 0F, -0.9F, 2.2F, 3F, 1.8F),
+                PartPose.offsetAndRotation(0F, 7F, 0F, -0.6F, 0F, 0F));
+        PartDefinition p76 = root.addOrReplaceChild("left_arm", CubeListBuilder.create().texOffs(58, 32).mirror().addBox(-2.25F, -1F, -2.25F, 4.5F, 6F, 4.5F).mirror(false).texOffs(40, 54).mirror().addBox(-3F, -2.5F, -3F, 6F, 3F, 6F).mirror(false),
+                PartPose.offsetAndRotation(5.5F, 2.5F, -8F, 0F, 0F, -1.05F));
+        PartDefinition p77 = p76.addOrReplaceChild("forearm_l", CubeListBuilder.create().texOffs(78, 32).mirror().addBox(-2F, 0F, -2F, 4F, 6.5F, 4F).mirror(false),
                 PartPose.offsetAndRotation(0F, 5.5F, 0F, -1.25F, 0F, -0.3F));
-        PartDefinition p71 = p70.addOrReplaceChild("forearm_l_spike", CubeListBuilder.create().texOffs(36, 63).mirror().addBox(-0.4F, -2F, -0.4F, 0.8F, 2F, 0.8F).mirror(false),
-                PartPose.offsetAndRotation(1.1F, 2.5F, 0F, 0F, 0F, -0.9F));
-        PartDefinition p72 = p70.addOrReplaceChild("pincer_l", CubeListBuilder.create().texOffs(18, 32).mirror().addBox(-2.25F, 0F, -1.75F, 4.5F, 6F, 3.5F).mirror(false),
-                PartPose.offsetAndRotation(0F, 6F, 0F, 0F, 0F, -0.2F));
-        PartDefinition p73 = p72.addOrReplaceChild("pincer_l_fixed", CubeListBuilder.create().texOffs(106, 42).mirror().addBox(-1.5F, 0F, -1F, 3F, 6F, 2F).mirror(false),
-                PartPose.offsetAndRotation(0F, 6F, -0.75F, 0.1F, 0F, 0F));
-        PartDefinition p74 = p73.addOrReplaceChild("pincer_l_tip", CubeListBuilder.create().texOffs(44, 58).mirror().addBox(-1F, 0F, -0.75F, 2F, 2.5F, 1.5F).mirror(false),
-                PartPose.offsetAndRotation(0F, 6F, 0F, 0.5F, 0F, 0F));
-        PartDefinition p75 = p72.addOrReplaceChild("claw_l", CubeListBuilder.create().texOffs(116, 42).mirror().addBox(-1.25F, 0F, -1F, 2.5F, 6F, 2F).mirror(false),
-                PartPose.offsetAndRotation(0F, 5.5F, 1.25F, 0.45F, 0F, 0F));
-        PartDefinition p76 = p75.addOrReplaceChild("claw_l_tip", CubeListBuilder.create().texOffs(52, 58).mirror().addBox(-0.9F, 0F, -0.75F, 1.8F, 2.5F, 1.5F).mirror(false),
-                PartPose.offsetAndRotation(0F, 6F, 0F, -0.6F, 0F, 0F));
-        PartDefinition p77 = root.addOrReplaceChild("right_leg", CubeListBuilder.create(),
+        PartDefinition p78 = p77.addOrReplaceChild("forearm_l_spike0", CubeListBuilder.create().texOffs(64, 77).mirror().addBox(-0.5F, -2.5F, -0.5F, 1F, 2.5F, 1F).mirror(false),
+                PartPose.offsetAndRotation(1.9F, 1.5F, 0F, 0F, 0F, -0.9F));
+        PartDefinition p79 = p77.addOrReplaceChild("forearm_l_spike1", CubeListBuilder.create().texOffs(68, 77).mirror().addBox(-0.5F, -2.5F, -0.5F, 1F, 2.5F, 1F).mirror(false),
+                PartPose.offsetAndRotation(1.9F, 4F, 0F, 0F, 0F, -0.9F));
+        PartDefinition p80 = p77.addOrReplaceChild("pincer_l", CubeListBuilder.create().texOffs(0, 32).mirror().addBox(-3F, 0F, -2.5F, 6F, 6.5F, 5F).mirror(false),
+                PartPose.offsetAndRotation(0F, 6.5F, 0F, 0F, 0F, -0.2F));
+        PartDefinition p81 = p80.addOrReplaceChild("pincer_l_fixed", CubeListBuilder.create().texOffs(28, 44).mirror().addBox(-2F, 0F, -1.25F, 4F, 7F, 2.5F).mirror(false),
+                PartPose.offsetAndRotation(0F, 6.5F, -1.25F, 0.1F, 0F, 0F));
+        PartDefinition p82 = p81.addOrReplaceChild("pincer_l_tip", CubeListBuilder.create().texOffs(102, 71).mirror().addBox(-1.25F, 0F, -1F, 2.5F, 3F, 2F).mirror(false),
+                PartPose.offsetAndRotation(0F, 7F, 0F, 0.5F, 0F, 0F));
+        PartDefinition p83 = p80.addOrReplaceChild("claw_l", CubeListBuilder.create().texOffs(42, 44).mirror().addBox(-1.75F, 0F, -1.25F, 3.5F, 7F, 2.5F).mirror(false),
+                PartPose.offsetAndRotation(0F, 6F, 1.5F, 0.45F, 0F, 0F));
+        PartDefinition p84 = p83.addOrReplaceChild("claw_l_tip", CubeListBuilder.create().texOffs(112, 71).mirror().addBox(-1.1F, 0F, -0.9F, 2.2F, 3F, 1.8F).mirror(false),
+                PartPose.offsetAndRotation(0F, 7F, 0F, -0.6F, 0F, 0F));
+        PartDefinition p85 = root.addOrReplaceChild("right_leg", CubeListBuilder.create(),
                 PartPose.offsetAndRotation(0F, 0F, 0F, 0F, 0F, 0F));
-        PartDefinition p78 = root.addOrReplaceChild("left_leg", CubeListBuilder.create(),
+        PartDefinition p86 = root.addOrReplaceChild("left_leg", CubeListBuilder.create(),
                 PartPose.offsetAndRotation(0F, 0F, 0F, 0F, 0F, 0F));
         return LayerDefinition.create(mesh, 128, 128);
     }

diff --git a/mods/warfront/tools/hive_units.py b/mods/warfront/tools/hive_units.py
@@ -108,23 +108,23 @@ def hive_lancer():
 def _pincer():
     """One claw arm: plated shoulder, upper arm held out to the side, forearm bent forward, and a big pincer
     whose lower jaw (claw_r) opens."""
-    return part("right_arm", pivot=(-5, 2.5, -8), rot=(0, 0, 1.05),
-                boxes=[box((-1.5, -1, -1.5), (3, 6, 3), "hb_plate"),
-                       box((-2, -2, -2), (4, 2.5, 4), "hb_shell")], children=[
+    return part("right_arm", pivot=(-5.5, 2.5, -8), rot=(0, 0, 1.05),
+                boxes=[box((-2.25, -1, -2.25), (4.5, 6, 4.5), "hb_plate"),
+                       box((-3, -2.5, -3), (6, 3, 6), "hb_shell")], children=[
                     part("forearm_r", pivot=(0, 5.5, 0), rot=(-1.25, 0, 0.3),
-                         boxes=[box((-1.25, 0, -1.25), (2.5, 6, 2.5), "hb_plate")], children=[
-                             part("forearm_r_spike", pivot=(-1.1, 2.5, 0), rot=(0, 0, 0.9),
-                                  boxes=[box((-0.4, -2, -0.4), (0.8, 2, 0.8), "spike")]),
-                             part("pincer_r", pivot=(0, 6, 0), rot=(0, 0, 0.2),
-                                  boxes=[box((-2.25, 0, -1.75), (4.5, 6, 3.5), "hb_claw")], children=[
-                                      part("pincer_r_fixed", pivot=(0, 6, -0.75), rot=(0.1, 0, 0),
-                                           boxes=[box((-1.5, 0, -1), (3, 6, 2), "hb_claw")], children=[
-                                               part("pincer_r_tip", pivot=(0, 6, 0), rot=(0.5, 0, 0),
-                                                    boxes=[box((-1, 0, -0.75), (2, 2.5, 1.5), "hook")])]),
-                                      part("claw_r", pivot=(0, 5.5, 1.25), rot=(0.45, 0, 0),
-                                           boxes=[box((-1.25, 0, -1), (2.5, 6, 2), "hb_claw")], children=[
-                                               part("claw_r_tip", pivot=(0, 6, 0), rot=(-0.6, 0, 0),
-                                                    boxes=[box((-0.9, 0, -0.75), (1.8, 2.5, 1.5), "hook")])])])])])
+                         boxes=[box((-2, 0, -2), (4, 6.5, 4), "hb_plate")], children=[
+                             *[part(f"forearm_r_spike{i}", pivot=(-1.9, 1.5 + i * 2.5, 0), rot=(0, 0, 0.9),
+                                    boxes=[box((-0.5, -2.5, -0.5), (1, 2.5, 1), "spike")]) for i in range(2)],
+                             part("pincer_r", pivot=(0, 6.5, 0), rot=(0, 0, 0.2),
+                                  boxes=[box((-3, 0, -2.5), (6, 6.5, 5), "hb_claw")], children=[
+                                      part("pincer_r_fixed", pivot=(0, 6.5, -1.25), rot=(0.1, 0, 0),
+                                           boxes=[box((-2, 0, -1.25), (4, 7, 2.5), "hb_claw")], children=[
+                                               part("pincer_r_tip", pivot=(0, 7, 0), rot=(0.5, 0, 0),
+                                                    boxes=[box((-1.25, 0, -1), (2.5, 3, 2), "hook")])]),
+                                      part("claw_r", pivot=(0, 6, 1.5), rot=(0.45, 0, 0),
+                                           boxes=[box((-1.75, 0, -1.25), (3.5, 7, 2.5), "hb_claw")], children=[
+                                               part("claw_r_tip", pivot=(0, 7, 0), rot=(-0.6, 0, 0),
+                                                    boxes=[box((-1.1, 0, -0.9), (2.2, 3, 1.8), "hook")])])])])])
 
 
 # Walking legs: four per side under the carapace, splayed from front to back. Each leg rises to a high knee
@@ -146,24 +146,34 @@ def hive_beast():
     """Hive beast: a lobster centaur. The lower body is a low carapace on eight crawling legs with a segmented
     tail; an upright plated torso rises from its front, with claw arms held out to the sides and a head with
     eye stalks, antennae and tusk-mandibles. Sculk-dark shell with glowing veins and a finned crest."""
+    # Head after the reference: a tall spiked crown with two horns sweeping out, a narrow snout with a cluster of
+    # small eyes under a heavy brow, broad bone mandible-blades curving down past the chest, and thin fangs between.
     head = part("head", pivot=(0, -0.5, -8.5), boxes=[
-        box((-3, -6, -3.5), (6, 6, 6), "hb_head"),
-        box((-2.5, -1.5, -4.5), (5, 2, 2), "hb_belly"),
+        box((-2.5, -4.5, -2.5), (5, 4.5, 5), "hb_head"),                  # skull
+        box((-2.75, -5, -4.5), (5.5, 1.5, 2.5), "hb_shell"),              # heavy brow, overhanging the eyes
+        box((-2, -3.5, -3.6), (4, 1.4, 1.1), "hb_leg"),                   # dark recess under the brow
+        *[box((x, -3.2, -3.85), (0.6, 0.6, 0.3), "eye") for x in (-1.7, -0.75, 0.15, 1.1)],
+        box((-1.75, -2.1, -6), (3.5, 2.6, 3.5), "hb_head"),               # snout, jutting forward
+        box((-1.25, -2.5, -5.75), (2.5, 0.5, 3), "hb_shell"),             # snout ridge
+        box((-1.5, 0.5, -5.5), (3, 1, 3), "hb_leg"),                      # dark mouth under the snout
     ], children=[
-        part("eye_r", pivot=(-1.8, -5.5, -2.5), rot=(0.3, 0, -0.35),
-             boxes=[box((-0.4, -2.5, -0.4), (0.8, 2.5, 0.8), "hb_leg"),
-                    box((-0.75, -3.8, -0.75), (1.5, 1.5, 1.5), "eye")]),
-        part("antenna_r", pivot=(-1.4, -5, -3.2), rot=(-0.6, 0, -0.35),
-             boxes=[box((-0.3, -9, -0.3), (0.6, 9, 0.6), "antenna")],
-             children=[part("antenna_r_tip", pivot=(0, -9, 0), rot=(-0.9, 0, -0.2),
-                            boxes=[box((-0.25, -10, -0.25), (0.5, 10, 0.5), "antenna")])]),
-        part("mandible_r", pivot=(-1.6, 0, -4), rot=(0.25, 0, 0.2),
-             boxes=[box((-0.6, 0, -0.6), (1.2, 4, 1.2), "mandible")],
-             children=[part("mandible_r_tip", pivot=(0, 4, 0), rot=(-0.8, 0, -0.4),
-                            boxes=[box((-0.45, 0, -0.45), (0.9, 3, 0.9), "mandible")])]),
-        part("feeler_r", pivot=(-0.7, 0.5, -4.3), rot=(0.2, 0, 0.1), boxes=[box((-0.25, 0, -0.25), (0.5, 3, 0.5), "hb_leg")]),
+        part("crown_c", pivot=(0, -4.5, -1.5), rot=(-0.45, 0, 0), boxes=[box((-1.75, -9, -0.5), (3.5, 9, 1), "frill")], children=[
+            *[part(f"crown_spike_{i}", pivot=(0, -2.5 - i * 3, 0.5), rot=(0.9, 0, 0),
+                   boxes=[box((-0.4, -2, -0.4), (0.8, 2, 0.8), "spike")]) for i in range(2)]]),
+        part("horn_r", pivot=(-2.25, -4, -1), rot=(-0.2, 0, -0.8), boxes=[box((-1, -6, -0.6), (2, 6, 1.2), "frill")], children=[
+            part("horn_r_tip", pivot=(0, -6, 0), rot=(0, 0, 0.25), boxes=[box((-0.5, -4, -0.5), (1, 4, 1), "spike")])]),
+        part("cheek_r", pivot=(-2.6, -2.2, -3.6), rot=(0, 0.5, 0.15), boxes=[box((-1, -2, -1), (1, 3.5, 3.5), "hb_shell")]),
+        part("mandible_r", pivot=(-1.9, 0.5, -5), rot=(0.25, 0, 0.5),
+             boxes=[box((-1.1, 0, -0.5), (2.2, 6.5, 1), "mandible")],
+             children=[part("mandible_r_tip", pivot=(0, 6.5, 0), rot=(-0.3, 0, -0.75),
+                            boxes=[box((-0.85, 0, -0.5), (1.7, 6, 1), "mandible")], children=[
+                                part("mandible_r_point", pivot=(0, 6, 0), rot=(0, 0, -0.4),
+                                     boxes=[box((-0.5, 0, -0.5), (1, 2.5, 1), "hook")])])]),
+        part("fang_r", pivot=(-0.9, 1.3, -5.4), rot=(0.1, 0, 0.12), boxes=[box((-0.25, 0, -0.25), (0.5, 4.5, 0.5), "mandible")]),
     ])
-    head["children"] += [mirror(c) for c in list(head["children"])]
+    head["children"] += [mirror(c) for c in list(head["children"]) if c["name"].endswith("_r")]
+    head["children"].append(part("fang_c", pivot=(0, 1.4, -5.6), rot=(0.12, 0, 0),
+                                 boxes=[box((-0.25, 0, -0.25), (0.5, 5.5, 0.5), "mandible")]))
 
     tail_fan = part("tail_fan", pivot=(0, 0, 3), rot=(-0.15, 0, 0), boxes=[box((-1.5, -0.5, 0), (3, 1, 4), "hb_shell")], children=[
         part("tail_fan_r", pivot=(-1.5, 0, 0), rot=(0, 0.45, 0), boxes=[box((-2.5, -0.5, 0), (2.5, 1, 3.5), "hb_shell")]),

diff --git a/tools/codex/build_codex.py b/tools/codex/build_codex.py
@@ -334,7 +334,7 @@ def main():
         ]),
         "%%HIVE_SHOTS%%": shots([
             ("hive-units-render.png", "Lancer-Drone, then the Deepmaw, each in the Hive's colors and the Swarm's: front, side and back.", True),
-            ("hive-beast-lobster.png", "The Deepmaw as a lobster centaur: front, side and top, in the Hive's and the Swarm's colors.", True),
+            ("hive-beast-lobster.png", "The Deepmaw as a lobster centaur: front, side and top in the Hive's and the Swarm's colors, then the face next to the reference.", True),
             ("hive-spearman.png", "Spearman reference.", False),
             ("hive-beast.png", "Beast reference.", False),
         ]),

diff --git a/docs/art-reference/NOTES.md b/docs/art-reference/NOTES.md
@@ -63,7 +63,8 @@ These drive the soldier models (3D parts), skins and unit sizes.
 - **Feel:** it bursts up out of the ground, scattering dirt. This suits the Hive's cave theme: a burrowing ambusher.
 - **Owner direction:** sculk colors (settled). The first build was too fat and tall. Make it a lobster centaur:
   the lobster back, tail and eight crawling legs, with an upright, human-like torso at the front and the claws
-  held out to the sides. Keep the mandibles, a crest and the glowing veins. Render: `hive-beast-lobster.png`.
+  held out to the sides. Arms thick, not skinny. The face needs depth, after the reference: crown and horns,
+  a heavy brow over the eyes, a jutting snout, broad tusk-blades and fangs. Render: `hive-beast-lobster.png`.
 
 ## Demon: beast unit - `demon-beast.png`
 - A Demon war beast. Picture only; ignore the book text.
